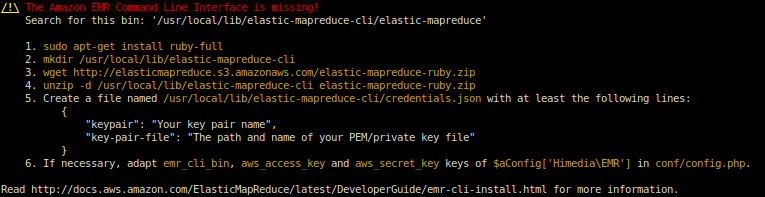
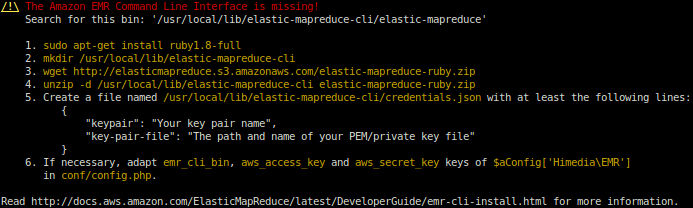
Add some specification to installation process.

diff --git a/src/inc/bootstrap.php b/src/inc/bootstrap.php
@@ -55,11 +55,11 @@ if (! file_exists($aConfig['vendor_dir'] . '/autoload.php')) {
 // Check EMR CLI
 $sEMRBin = $aConfig['Himedia\EMR']['emr_cli_bin'];
 $sCmd = "which '$sEMRBin' 1>/dev/null 2>&1 && echo 'OK' || echo 'NOK'";
-if (exec($sCmd) != 'OK') {
+if (exec($sCmd) != 'OKcc') {
     echo "\033[1m\033[4;33m/!\\\033[0;37m "
         . "\033[0;31mThe Amazon EMR Command Line Interface is missing!" . PHP_EOL
         . "    \033[0;37mSearch for this bin: '$sEMRBin'" . PHP_EOL . PHP_EOL
-        . "    \033[0;37m1. \033[0;33msudo apt-get install ruby-full" . PHP_EOL
+        . "    \033[0;37m1. \033[0;33msudo apt-get install ruby1.8-full" . PHP_EOL
         . "    \033[0;37m2. \033[0;33mmkdir /usr/local/lib/elastic-mapreduce-cli" . PHP_EOL
         . "    \033[0;37m3. \033[0;33mwget http://elasticmapreduce.s3.amazonaws.com/elastic-mapreduce-ruby.zip"
         . PHP_EOL
@@ -72,8 +72,8 @@ if (exec($sCmd) != 'OK') {
         . "              \"key-pair-file\": \"The path and name of your PEM/private key file\"" . PHP_EOL
         . "          }" . PHP_EOL
         . "    \033[0;37m6. If necessary, adapt \033[0;33memr_cli_bin\033[0;37m, \033[0;33maws_access_key\033[0;37m"
-        . " and \033[0;33maws_secret_key\033[0;37m keys of \033[0;33m\$aConfig['Himedia\EMR']\033[0;37m"
-        . " in \033[0;33mconf/config.php\033[0;37m." . PHP_EOL . PHP_EOL
+        . " and \033[0;33maws_secret_key\033[0;37m keys of \033[0;33m\$aConfig['Himedia\EMR']\033[0;37m" . PHP_EOL
+        . "    \033[0;37m   in \033[0;33mconf/config.php\033[0;37m." . PHP_EOL . PHP_EOL
         . "\033[0;37mRead http://docs.aws.amazon.com/ElasticMapReduce/latest/DeveloperGuide/emr-cli-install.html"
         . " for more information." . PHP_EOL
         . PHP_EOL;

diff --git a/README.md b/README.md
@@ -119,6 +119,8 @@ Initialize configuration file from `conf/config-dist.php` and adapt it:
 $ cp '/usr/local/lib/emr-monitoring/conf/config-dist.php' '/usr/local/lib/emr-monitoring/conf/config.php'
 ```
 
+If Bash is not your default shell, then fill `$aConfig['Himedia\EMR']['shell']` whith your Bash interpreter path, *e.g.* `/bin/bash`.
+
 ### Dependencies
 
 All dependencies are checked at launch and **EMR Monitoring** systematically helps to resolve them.
@@ -153,6 +155,7 @@ Read <http://getcomposer.org/doc/00-intro.md#installation-nix> for more informat
 
 [Amazon Elastic MapReduce Ruby Client](http://aws.amazon.com/developertools/2264) 
 is needed to get description of a jobflow.
+*Warning: it requires Ruby 1.8.7 and is not compatible with later versions of Ruby.*
 
 ![Dependency on EMR CLI](doc/images/dependency-emr-cli.png "Dependency on EMR CLI")
 
@@ -161,7 +164,7 @@ is needed to get description of a jobflow.
 To install Amazon EMR Command Line Interface:
 
 ```bash
-$ sudo apt-get install ruby-full
+$ sudo apt-get install ruby1.8-full
 $ mkdir /usr/local/lib/elastic-mapreduce-cli
 $ wget http://elasticmapreduce.s3.amazonaws.com/elastic-mapreduce-ruby.zip
 $ unzip -d /usr/local/lib/elastic-mapreduce-cli elastic-mapreduce-ruby.zip
@@ -175,6 +178,8 @@ Create a file named `/usr/local/lib/elastic-mapreduce-cli/credentials.json` with
     "key-pair-file": "The path and name of your PEM/private key file"
 }
 ```
+
+The `key-pair-file` key is especially used to open a SSH tunnel to the master node and consult Hadoop JobTracker.
 
 If necessary, adapt `emr_cli_bin`, `aws_access_key` and `aws_secret_key` keys 
 of `$aConfig['Himedia\EMR']` in `conf/config.php`.
